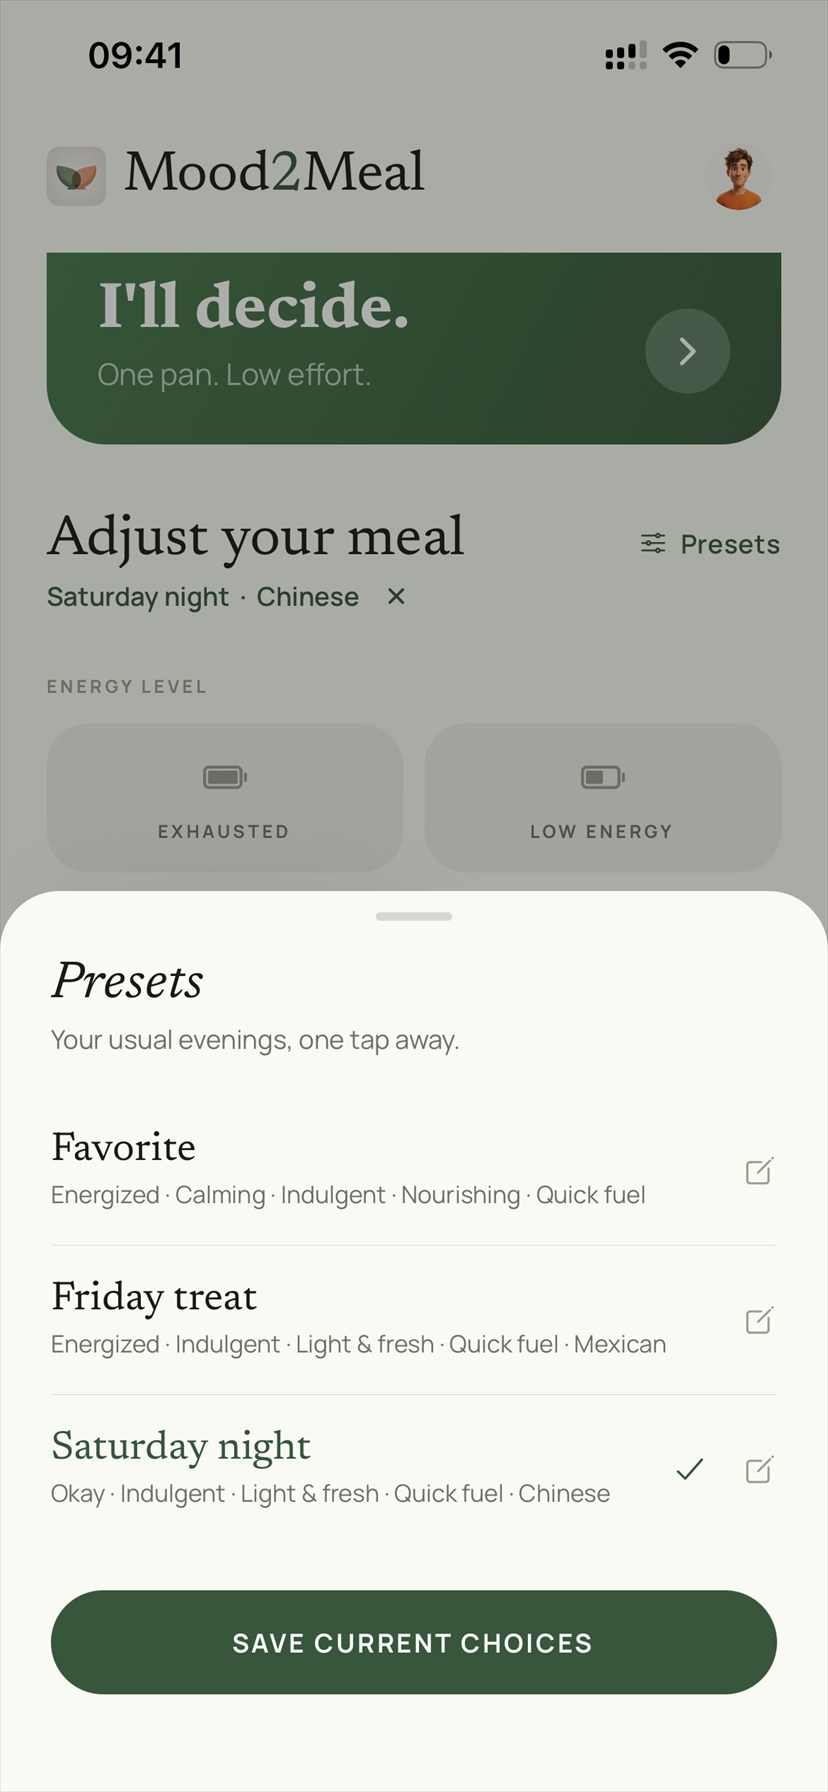
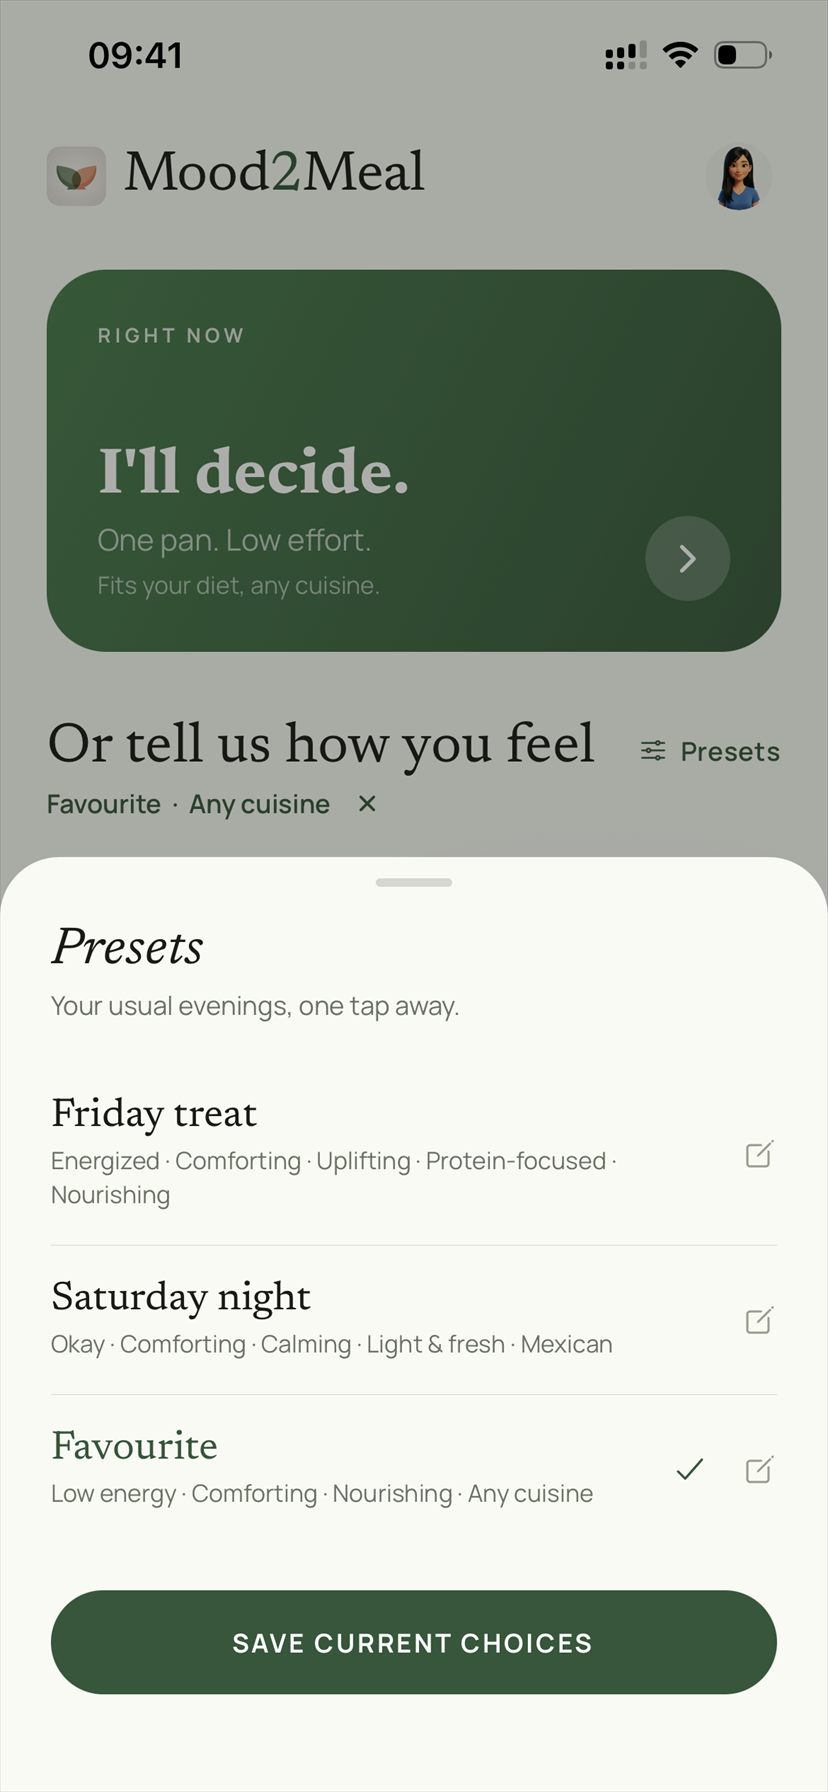
Website: app screenshots with the Kitchen tab and the new Home
Home, meal card, cooking step, Use what I have, Presets and the shopping
list are re-shot from the 1.0 build (four tabs: Decision, Kitchen, Cook,
Saved; Right Now card on Home; current staples; "Favourite"). Alt text
updated to match; ?v= tag so cached copies refresh. Right Now unchanged.

diff --git a/index.html b/index.html
@@ -97,15 +97,15 @@
           <li>
             <h3>Say how you feel</h3>
             <p>Pick your mood and how much effort you have in you tonight.</p>
-          <figure class="app-phone light" data-app-screen><img src="editorial-preview/mood-light.jpg" alt="The Mood2Meal home screen with Energized and Comforting selected, ready to find a meal" width="828" height="1792" loading="lazy" decoding="async"/></figure></li>
+          <figure class="app-phone light" data-app-screen><img src="editorial-preview/mood-light.jpg?v=20261123" alt="The Mood2Meal home screen: the Right Now card, then Or tell us how you feel with Low energy picked from the Favourite preset" width="828" height="1792" loading="lazy" decoding="async"/></figure></li>
           <li>
             <h3>Get one meal</h3>
             <p>Mood2Meal suggests a meal that fits the moment, your diet and your kitchen. Not feeling it? Ask for another.</p>
-          <figure class="app-phone light" data-app-screen><img src="editorial-preview/meal-light.jpg" alt="Mood2Meal suggesting sweet and sour chicken for Energized, Comforting and Experimental: 35 minutes, serves 2" width="828" height="1792" loading="lazy" decoding="async"/></figure></li>
+          <figure class="app-phone light" data-app-screen><img src="editorial-preview/meal-light.jpg?v=20261123" alt="Mood2Meal suggesting teriyaki chicken donburi for Energized, Comforting and Uplifting: 30 minutes, serves 2" width="828" height="1792" loading="lazy" decoding="async"/></figure></li>
           <li>
             <h3>Cook it, step by step</h3>
             <p>Follow clear steps with amounts and timers that keep going when you lock your phone. Missing an ingredient? With Premium, the recipe adjusts.</p>
-          <figure class="app-phone light" data-app-screen><img src="editorial-preview/cooking-light.jpg" alt="Step 7 of 9 for sweet and sour chicken, with a one-minute timer ready to start" width="828" height="1792" loading="lazy" decoding="async"/></figure></li>
+          <figure class="app-phone light" data-app-screen><img src="editorial-preview/cooking-light.jpg?v=20261123" alt="Step 6 of 9 for teriyaki chicken donburi, with a five-minute timer ready to start" width="828" height="1792" loading="lazy" decoding="async"/></figure></li>
         </ol>
       </div>
     </section>
@@ -120,11 +120,11 @@
           <div class="card with-screen right-now-card"><div><h3>Right Now</h3>
 <p>One tap and Mood2Meal picks a one-pan meal for you instantly. No choices at all.</p></div><figure class="app-phone light" data-app-screen><img src="editorial-preview/right-now-light.jpg" alt="Right Now picking chilli crisp fried eggs on rice: eight minutes, one pan, low effort" width="828" height="1792" loading="lazy" decoding="async"/></figure></div>
           <div class="card with-screen"><div><h3>Use what I have <span class="premium-tag">Premium</span></h3>
-<p>Type what's in your kitchen and get a meal you can make from it. If our library has nothing that fits, we make one for you.</p></div><figure class="app-phone light" data-app-screen><img src="editorial-preview/pantry-light.jpg" alt="Pantry Pulse: bell peppers typed in, with onion, garlic, rice and olive oil ticked as staples" width="828" height="1792" loading="lazy" decoding="async"/></figure></div>
+<p>Type what's in your kitchen and get a meal you can make from it. If our library has nothing that fits, we make one for you.</p></div><figure class="app-phone light" data-app-screen><img src="editorial-preview/pantry-light.jpg?v=20261123" alt="Use what I have: mushroom, garlic and basil typed in, with tomato and pasta ticked as staples" width="828" height="1792" loading="lazy" decoding="async"/></figure></div>
           <div class="card with-screen full-screen"><div><h3>Fine-Tune Presets</h3>
-<p>Save the way you like to eat on a weeknight or a Friday, and bring it back with one tap. Your diet and allergies always apply.</p></div><figure class="app-phone light" data-app-screen><img src="editorial-preview/presets-light.jpg" alt="The Presets sheet with three saved presets, Favorite, Friday treat and Saturday night, each one tap away" width="828" height="1792" loading="lazy" decoding="async"/></figure></div>
+<p>Save the way you like to eat on a weeknight or a Friday, and bring it back with one tap. Your diet and allergies always apply.</p></div><figure class="app-phone light" data-app-screen><img src="editorial-preview/presets-light.jpg?v=20261123" alt="The Presets sheet with three saved presets, Friday treat, Saturday night and Favourite, each one tap away" width="828" height="1792" loading="lazy" decoding="async"/></figure></div>
           <div class="card with-screen"><div><h3>Smart Shopping List <span class="premium-tag">Premium</span></h3>
-<p>A shopping list built automatically from the meals you choose.</p></div><figure class="app-phone light" data-app-screen><img src="editorial-preview/shopping-light.jpg" alt="Smart Shopping List built from saved meals, with ingredients and amounts grouped by aisle" width="828" height="1792" loading="lazy" decoding="async"/></figure></div>
+<p>A shopping list built automatically from the meals you choose.</p></div><figure class="app-phone light" data-app-screen><img src="editorial-preview/shopping-light.jpg?v=20261123" alt="Smart Shopping List built from saved meals, with ingredients and amounts grouped by aisle" width="828" height="1792" loading="lazy" decoding="async"/></figure></div>
           <div class="card wide">
             <h3>Timers that keep going</h3>
             <p>Start a timer, lock your phone or move on to the next step, and you'll get an alert the moment it's done.</p>
